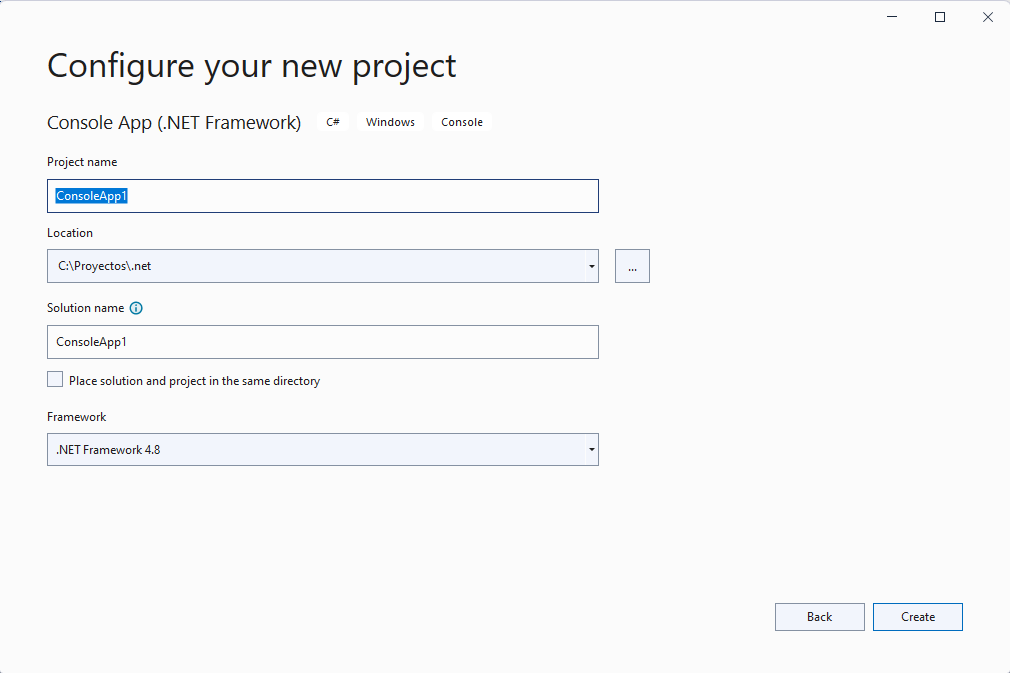
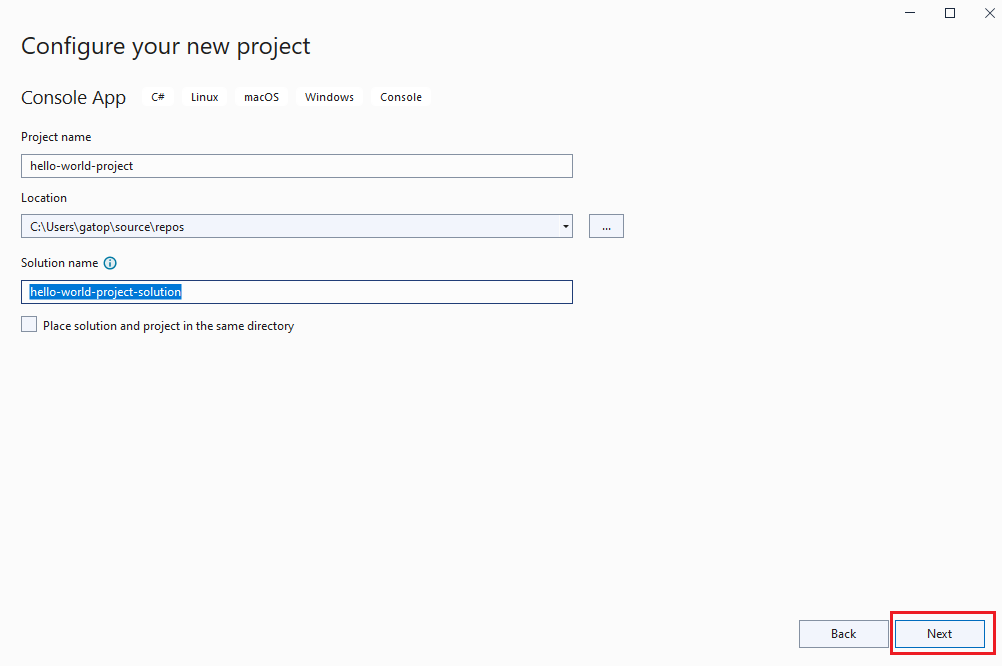
review 02 dot-net 01 hello world

diff --git a/01-stack-relacional/02-donet/00-csharp/01-hello-world/readme_es.md b/01-stack-relacional/02-donet/00-csharp/01-hello-world/readme_es.md
@@ -8,21 +8,36 @@ En este apartado vamos a ver los conceptos básicos de cómo crear nuestra prime
 
 Vamos a descargar la última versión _Visual Studio Community_ del siguiente [enlace](https://visualstudio.microsoft.com/es/vs/community/).
 
-Podemos usar la licencia de la versión community si cumplimos las siguiente restricciones:
+Podemos usar la licencia de la versión community si cumplimos las siguientes restricciones:
 
 - Desarrolladores individuales, es decir, los que trabajan por su cuenta y no para una empresa, y los que programan por afición o gusto, pero no por trabajo.
-- Los estudiantes, y los alumnos de empresas como campusMVP, que están aprendiendo a desarrollar usando Visual Studio.
 - Los investigadores y aquellos que lo usan para ciencia de datos, crear aplicaciones que les ayuden con sus investigaciones, etc... que lo utilizan desde un entorno académico.
 - Proyectos Open Source. Si el proyecto que desarrollas es de código abierto, entonces lo puedes utilizar sin problema, aunque seáis muchos colaborando en él.
 - Organizaciones no empresariales. Si tu empresa tiene menos de 250 usuarios de PC (sean o no programadores) y factura menos de 1 millón de dólares, según Microsoft no sois "empresa" y podréis usar Visual Studio Community sin problemas hasta un máximo de 5 usuarios al mismo tiempo.
 
 ## Tipos de proyectos de Visual Studio
 
-Una vez instalado, vamos a iniciar la herramienta y creamos nuestro primer proyecto.
+Una vez instalado, vamos a iniciar la herramienta y nos aparecen diferentes instalaciones que podemos realizar. 
 
-![Crear un proyecto](./content/new_project.png)
+Vamos a seleccionar _Desarrollo de ASP.NET y web_ en _Cargas de Trabajo_:
 
-El siguiente paso que nos encontramos es el de elegir que tipo de proyecto vamos a crear. Tenemos un amplio abanico de posibilidades (dependiendo de los complementos que hayamos elegido a la hora de hacer la instalación) pero los más básicos son:
+<img src="./content/install-option1.png" style="zoom:67%;"  >
+
+
+
+En _Componentes individuales_, en _Buscar componentes_, escribimos _.NET 5.0_ seleccionamos la opción como podemos ver en la siguiente imagen e instalamos:
+
+<img src="./content/install-option2.png" style="zoom:67%;"  > 
+
+Una vez que tenemos todo instalado, vamos a arrancar Visual Studio y nos aparece la siguiente pantalla, si queremos registrarnos podemos hacerlo, o _omitirlo por el momento_, y por último seleccionamos el tema que queremos elegir e iniciamos la aplicación.
+
+<img src="./content/omit-register.png" style="zoom:67%;"  > 
+
+Vamos ya a empezar a trabajar con _Visual Studio_ y seleccionamos crear un nuevo proyecto.
+
+<img src="./content/new_project.png" style="zoom:67%;"  >
+
+El siguiente paso que nos encontramos es el de elegir qué tipo de proyecto vamos a crear. Tenemos un amplio abanico de posibilidades (dependiendo de los complementos que hayamos elegido a la hora de hacer la instalación) pero los más básicos son:
 
 - Aplicaciones de consola.
 - Aplicaciones Windows/WPF.
@@ -38,19 +53,25 @@ Vamos a seleccionar como tipo de proyecto "Aplicación de consola" (versión net
 - Ubicación.
 - Nombre de la solución.
 
-![Datos básicos del proyecto](./content/basic_data_project.png)
+<img src="./content/basic_data_project.png" style="zoom:67%;"  >
 
-> **Pregunta a los estudiantes** ¿Qué diferencia hay entre _solución_ y _proyecto_?.
+Ahora seleccionamos _*.NET 5.0*_ y aunque nos diga _Out of support_ seleccionamos la opción. Vamos a utilizar esta versión de _.NET_ porque el código es más intuitivo y fácil de entender. Para ver más información sobre esto podemos consultar el siguiente [enlace](https://learn.microsoft.com/es-es/dotnet/core/tutorials/top-level-templates). 
+
+Y ya podemos crear nuestro primer proyecto:
+
+<img src="./content/basic_data_project2.png" style="zoom:67%;"  >
+
+> **Pregunta a los estudiantes** ¿Qué diferencia hay entre _solución_ y _proyecto_?
 
 Una solución es un conjunto de proyectos. Cada proyecto de una solución dará como resultado un ensamblado.
 
 Sería conveniente dar un nombre diferente a la solución y al proyecto.
 
-El último paso es seleccionar el framework con el que vamos a crear nuestro proyecto.
+El último paso es seleccionar el *framework* con el que vamos a crear nuestro proyecto.
 
 ## Analizando la creación base de nuestra aplicación
 
-Vamos a ver cual es el resultado que obtenemos:
+Vamos a ver cuál es el resultado que obtenemos:
 
 ### A nivel de carpeta
 
@@ -80,12 +101,12 @@ Vamos a ver el código generado:
 
 Antes de meternos a explicar conceptos como clases, métodos, vamos a ver conceptos básicos que se pueden observar en este código inicial:
 
-- El lenguaje C# es case-sensitive. Cuando creamos una variable, clase, método... el identificador que asignamos diferencia entre las mayúsculas y minúsculas.
-- Para limitar bloques de código utilizamos { y }.
+- El lenguaje *C#* es *case-sensitive*. Cuando creamos una variable, clase, método... el identificador que asignamos diferencia entre las mayúsculas y minúsculas.
+- Para limitar bloques de código utilizamos *{ y }*.
 - Las instrucciones terminan con ;
 - Si necesitamos incluir comentarios en nuestro código podemos utilizar // o /* y */.
 - Con _namespace_ podemos organizar las clases que vamos a ir creando.
-- Si necesitamos una clase que no está en nuestro _namespace_ podemos acceder a ella si hacemos un _using_ de su _namespace_
+- Si necesitamos una clase que no está en nuestro _namespace_ podemos acceder a ella si hacemos un _using_ de su _namespace_.
 
 ## Compilar
 
@@ -119,9 +140,13 @@ Vale, ya podemos ejecutar nuestra aplicación. Lo podemos hacer de varias formas
 
 - Pulsando la tecla F5
 
-Pero, ojo nuestro código no funciona! En la ventana de _Output_ vemos como se ha detectado un problema en nuestro código. Hemos escrito mal el nombre del método _Readline_ por tanto la aplicación no se puede ejecutar.
+Pero, ojo nuestro código ¡no funciona! En la ventana de _Output_ vemos como se ha detectado un problema en nuestro código. Hemos escrito mal el nombre del método _Readline_ por tanto la aplicación no se puede ejecutar.
 
-Desde la ventana de _Error List_ podemos movernos de forma rápida a la linea donde se ha detectado el problema. Vamos a solucionarlo:
+Desde la ventana de _Error List_ podemos movernos de forma rápida a la línea donde se ha detectado el problema. 
+
+<img src="./content/error-readline.png" style="zoom:67%;"  >
+
+Vamos a solucionarlo:
 
 ```diff
 namespace hello_world_project
@@ -130,11 +155,11 @@ namespace hello_world_project
     {
         static void Main(string[] args)
         {
-+            var a = 1;
-+            a = a + 1;
-+            Console.WriteLine(a);
--            Console.ReaLine();
-+            Console.ReadLine();
+            var a = 1;
+            a = a + 1;
+            Console.WriteLine(a);
+-           Console.ReaLine();
++           Console.ReadLine();
         }
     }
 }
@@ -146,23 +171,23 @@ Ahora si podemos ejecutar la aplicación y ver el resultado por consola.
 
 Una herramienta muy importante que tendremos que ir usando a lo largo de todo el desarrollo de nuestra aplicación es la depuración. Visual Studio nos permite depurar (_debug_) de forma muy sencilla. Vamos a verlo en nuestro código.
 
-Tal vez nos interese ver el valor de la variable a antes de hacer el commando _WriteLine_ para ello nos colocaremos en la linea anterior y pulsamos el botón derecho del ratón. En el menu contextual que nos aparece podemos añadir el breakpoint pulsando _Breakpoint > Insert Breakpoint_
+Tal vez nos interese ver el valor de la variable a antes de hacer el commando _WriteLine_ para ello nos colocaremos en la linea anterior y pulsamos el botón derecho del ratón. En el menú contextual que nos aparece podemos añadir el breakpoint pulsando _Breakpoint > Insert Breakpoint_
 
 ![Insertar breakpoint desde el menu](./content/add_breakpoint_menu.png)
 
-Otra forma mas sencilla es simplemente haciendo click en la linea que queramos insertar nuestro breakpoint a la izquierda del numero (sobre la banda gris)
+Otra forma más sencilla es simplemente haciendo clic en la línea que queramos insertar nuestro breakpoint a la izquierda del número (sobre la banda gris)
 
 ![Insertar breakpoint](./content/add_breakpoint.png)
 
 Ahora ya podemos arrancar otra vez nuestra aplicación pulsando F5.
 
-¿Qué ha pasado? Nuestro código se ha parado en la linea donde teníamos nuestro breakpoint.
+¿Qué ha pasado? Nuestro código se ha parado en la línea donde teníamos nuestro breakpoint.
 
 ![Breakpoint activo](./content/active_breakpoint.png)
 
 En el estado de depuración disponemos de muchas herramientas. Podemos destacar dos grupos:
 
-- Herramienta de diagnostico (Diagnostic Tool): Donde podemos ver datos de uso de memoria, procesador ... etc.
+- Herramienta de diagnóstico (Diagnostic Tool): Donde podemos ver datos de uso de memoria, procesador... etc.
 
 ![Herramienta de diagnostico](./content/diagnostic_tool.png)
 
@@ -170,7 +195,7 @@ En el estado de depuración disponemos de muchas herramientas. Podemos destacar 
 
 ![Estado de variables](./content/watch_variable.png)
 
-Vamos a cambiar el valor de la variable i. Para ello hacemos un doble click sobre la columna _value_ y ponemos 10 como nuevo valor y pulsamos enter.
+Vamos a cambiar el valor de la variable i. Para ello hacemos un doble clic sobre la columna _value_ y ponemos 10 como nuevo valor y pulsamos enter.
 
 En este punto podemos hacer las siguientes acciones:
 
@@ -184,7 +209,7 @@ Por otro lado, si no necesitamos el modo depuración podemos ejecutar la aplicac
 
 ## Otras herramientas
 
-### Intelisense
+### Intellisense
 
 Visual Studio dispone de una herramienta muy interesante que nos propone sugerencias a la hora de escribir nuestro código.
 
@@ -198,7 +223,7 @@ Otras herramientas muy útiles son las acciones rápidas o refactorización de c
 - ![Bombilla](./content/lightbulb.png): indica que hay acciones disponibles que debe llevar a cabo para mejorar el código.
 - ![Bombilla con error](./content/lightbulb_error.png): indica que hay una acción disponible que corrige un error del código.
 
-Vamos a modificar nuestro código para ver como se utilizan estas herramientas:
+Vamos a modificar nuestro código para ver cómo se utilizan estas herramientas:
 
 ```diff
 namespace hello_world_project
@@ -217,15 +242,15 @@ namespace hello_world_project
 }
 ```
 
-Aparece un error porque no sabe como convertir un valor double a int (lo veremos mas adelante). Si ponemos el ratón encima del error y esperamos unos segundo aparecerá la bombilla indicando que hay un error y nos propone las soluciones disponibles.
+Aparece un error porque no sabe cómo convertir un valor _double_ a _int_ (lo veremos más adelante). Si ponemos el ratón encima del error, y si esperamos unos segundos, aparecerá la bombilla indicando que hay un error y nos va a proponer las soluciones disponibles.
 
 ![Solución de problema](./content/fix_cast_problem.png)
 
 Seleccionamos la opción _Add explicit cast_ para hacer el casting de forma automática y el problema queda solventado.
 
-Otra acción que podemos realizar es la refactorizacion de código. Vamos a verlo en el ejemplo.
+Otra acción que podemos realizar es la refactorización de código. Vamos a verlo en el ejemplo.
 
-Seleccionamos **(int)(a * Math.PI)** y esperamos unos segundo a que aparezca el destornillador. Al hacer click sobre le destornillador se nos presentan todas las posible acciones que podemos realizar para mejorar el código.
+Seleccionamos **(int)(a * Math.PI)** y esperamos unos segundo a que aparezca el destornillador. Al hacer clic sobre le destornillador se nos presentan todas las posible acciones que podemos realizar para mejorar el código.
 
 ![Refactorización](./content/refactor.png)
 
